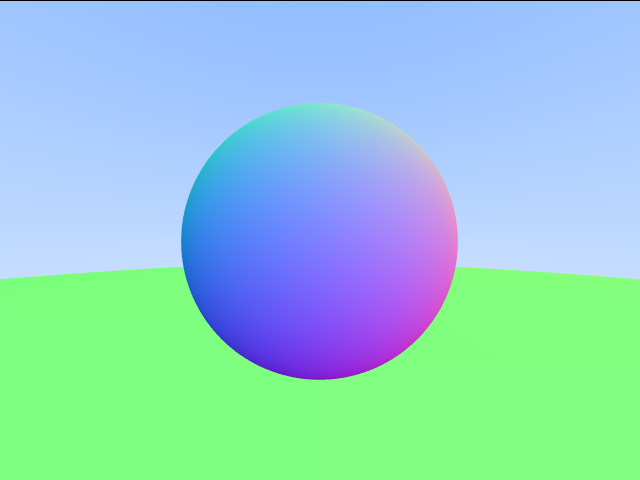
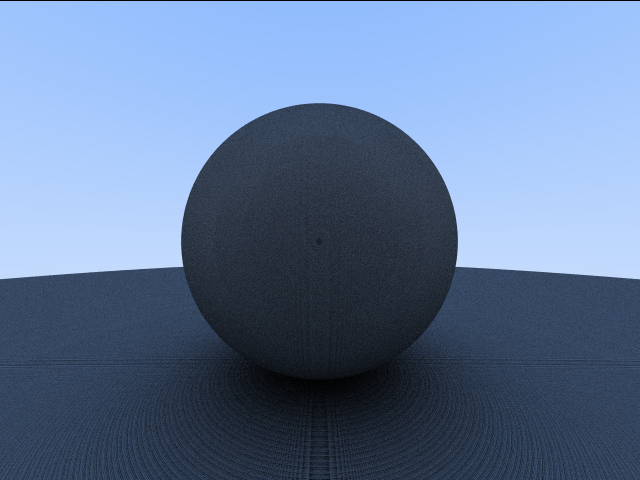
gamma correction

diff --git a/main.c b/main.c
@@ -47,6 +47,7 @@ HittableList make_world() {
 	printf("making balls\r\n");
 	HittableList_add(&world, MakeSphere(point3(0, -100.5, -1), 100));
 	HittableList_add(&world, MakeSphere(point3(0, 0, -1), 0.5f));
+	// HittableList_add(&world, MakeSphere(point3(-0.5, 0, -1), 0.2f));
 	printf("balls initialized\r\n\tworld:\r\n");
 	HittableList_print(&world, "\t");
 	return world;

diff --git a/include/utils.h b/include/utils.h
@@ -73,6 +73,9 @@ double clamp(double x, double min, double max) {
 
 Color Vector3ToColor(Vector3 v, double s) {
 	v = Vector3Scale(v, s);
+	v.x = sqrt(v.x);
+	v.y = sqrt(v.y);
+	v.z = sqrt(v.z);
 	return (Color){
 		(int)(clamp(v.x, 0.0, 0.999) * 256),
 		(int)(clamp(v.y, 0.0, 0.999) * 256),
